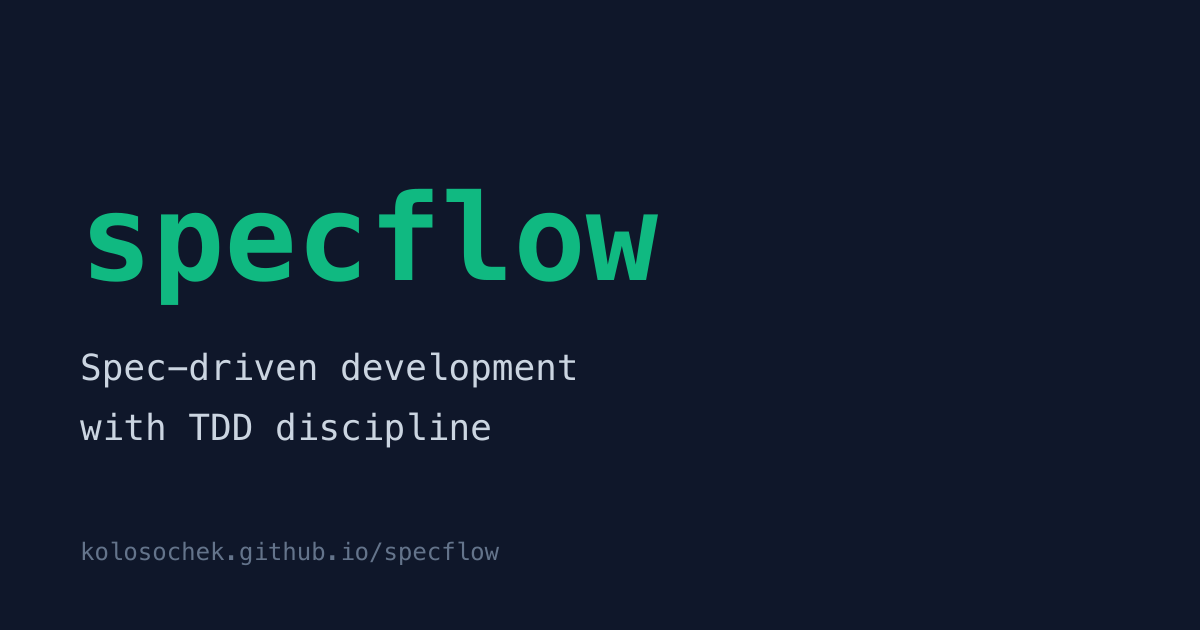
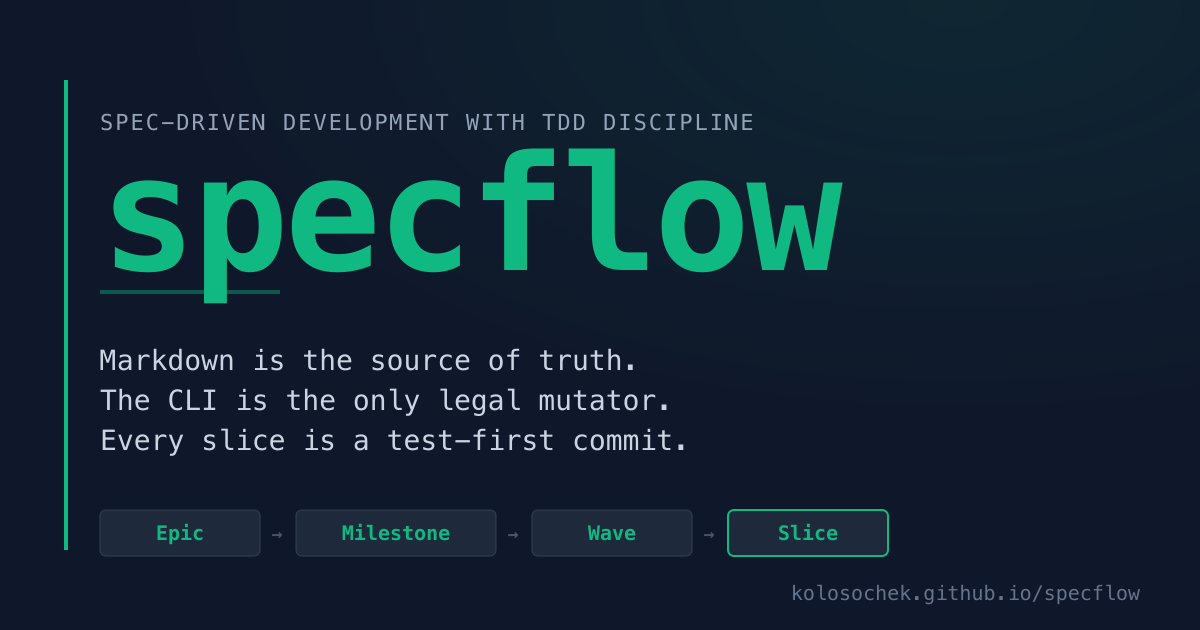
[chore/docs] polish OG image — visual hierarchy + tenet block + 4-layer strip
Replaces the previous flat composition with a layered design:
- emerald left-rail accent + radial halo gradient
- eyebrow tagline (SPEC-DRIVEN DEVELOPMENT WITH TDD DISCIPLINE)
- dominant 160px specflow wordmark with accent underline
- three-line tenet block (Markdown / CLI / test-first commit)
- 4-layer Epic→Milestone→Wave→Slice strip with Slice highlighted
- bottom-right URL footer

Dimensions unchanged (1200×630 PNG); links-no-dead test still passes.

diff --git a/scripts/make-og-image.ts b/scripts/make-og-image.ts
@@ -2,12 +2,66 @@ import sharp from 'sharp';
 import { resolve } from 'path';
 import { mkdirSync } from 'fs';
 
-const SVG = `<svg xmlns="http://www.w3.org/2000/svg" width="1200" height="630">
+// Open Graph preview, 1200x630. Composition:
+//   left rail accent (emerald) anchors the type
+//   eyebrow tagline + dominant wordmark + 3-line tenet block
+//   bottom: 4-layer hierarchy strip (Epic → Milestone → Wave → Slice)
+//   bottom-right: URL
+// Palette tracks the site theme: slate-900 / emerald-500 / slate-300 / slate-500
+const SVG = `<svg xmlns="http://www.w3.org/2000/svg" width="1200" height="630" viewBox="0 0 1200 630">
+  <!-- background -->
   <rect width="1200" height="630" fill="#0f172a"/>
-  <text x="80" y="280" font-family="ui-monospace, monospace" font-size="120" fill="#10b981" font-weight="700">specflow</text>
-  <text x="80" y="380" font-family="ui-monospace, monospace" font-size="36" fill="#cbd5e1">Spec-driven development</text>
-  <text x="80" y="440" font-family="ui-monospace, monospace" font-size="36" fill="#cbd5e1">with TDD discipline</text>
-  <text x="80" y="560" font-family="ui-monospace, monospace" font-size="24" fill="#64748b">kolosochek.github.io/specflow</text>
+
+  <!-- subtle gradient overlay top-right -->
+  <defs>
+    <radialGradient id="halo" cx="80%" cy="0%" r="70%">
+      <stop offset="0%" stop-color="#10b981" stop-opacity="0.10"/>
+      <stop offset="100%" stop-color="#10b981" stop-opacity="0"/>
+    </radialGradient>
+  </defs>
+  <rect width="1200" height="630" fill="url(#halo)"/>
+
+  <!-- left rail accent -->
+  <rect x="64" y="80" width="4" height="470" fill="#10b981"/>
+
+  <!-- eyebrow -->
+  <text x="100" y="130" font-family="ui-monospace, SFMono-Regular, Menlo, monospace" font-size="22" fill="#94a3b8" letter-spacing="2">SPEC-DRIVEN DEVELOPMENT WITH TDD DISCIPLINE</text>
+
+  <!-- wordmark -->
+  <text x="100" y="270" font-family="ui-monospace, SFMono-Regular, Menlo, monospace" font-size="160" font-weight="700" fill="#10b981" letter-spacing="-4">specflow</text>
+
+  <!-- accent underline -->
+  <rect x="100" y="290" width="180" height="4" fill="#10b981" opacity="0.4"/>
+
+  <!-- tenet block -->
+  <text x="100" y="370" font-family="ui-monospace, SFMono-Regular, Menlo, monospace" font-size="28" fill="#cbd5e1">Markdown is the source of truth.</text>
+  <text x="100" y="410" font-family="ui-monospace, SFMono-Regular, Menlo, monospace" font-size="28" fill="#cbd5e1">The CLI is the only legal mutator.</text>
+  <text x="100" y="450" font-family="ui-monospace, SFMono-Regular, Menlo, monospace" font-size="28" fill="#cbd5e1">Every slice is a test-first commit.</text>
+
+  <!-- 4-layer hierarchy strip -->
+  <g font-family="ui-monospace, SFMono-Regular, Menlo, monospace" font-size="20" font-weight="600">
+    <!-- Epic -->
+    <rect x="100" y="510" width="160" height="46" rx="6" fill="#1e293b" stroke="#334155" stroke-width="1"/>
+    <text x="180" y="540" fill="#10b981" text-anchor="middle">Epic</text>
+    <!-- arrow -->
+    <text x="277" y="540" fill="#475569" text-anchor="middle" font-size="18">→</text>
+    <!-- Milestone -->
+    <rect x="296" y="510" width="200" height="46" rx="6" fill="#1e293b" stroke="#334155" stroke-width="1"/>
+    <text x="396" y="540" fill="#10b981" text-anchor="middle">Milestone</text>
+    <!-- arrow -->
+    <text x="513" y="540" fill="#475569" text-anchor="middle" font-size="18">→</text>
+    <!-- Wave -->
+    <rect x="532" y="510" width="160" height="46" rx="6" fill="#1e293b" stroke="#334155" stroke-width="1"/>
+    <text x="612" y="540" fill="#10b981" text-anchor="middle">Wave</text>
+    <!-- arrow -->
+    <text x="709" y="540" fill="#475569" text-anchor="middle" font-size="18">→</text>
+    <!-- Slice -->
+    <rect x="728" y="510" width="160" height="46" rx="6" fill="#1e293b" stroke="#10b981" stroke-width="2"/>
+    <text x="808" y="540" fill="#10b981" text-anchor="middle">Slice</text>
+  </g>
+
+  <!-- footer URL bottom-right -->
+  <text x="1140" y="600" font-family="ui-monospace, SFMono-Regular, Menlo, monospace" font-size="20" fill="#64748b" text-anchor="end">kolosochek.github.io/specflow</text>
 </svg>`;
 
 const outDir = resolve(process.cwd(), 'docs-site/public');
